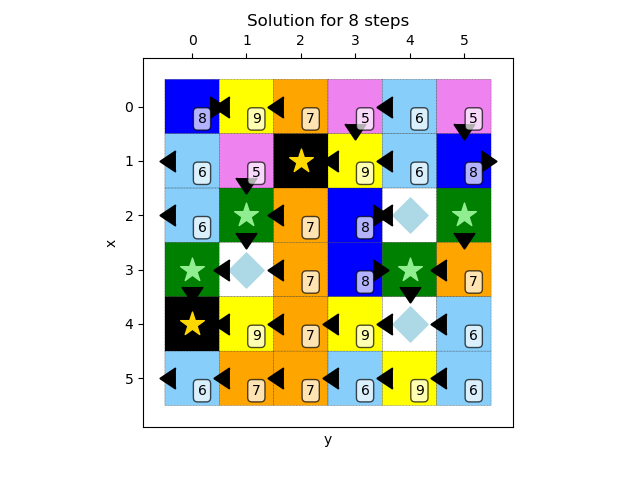
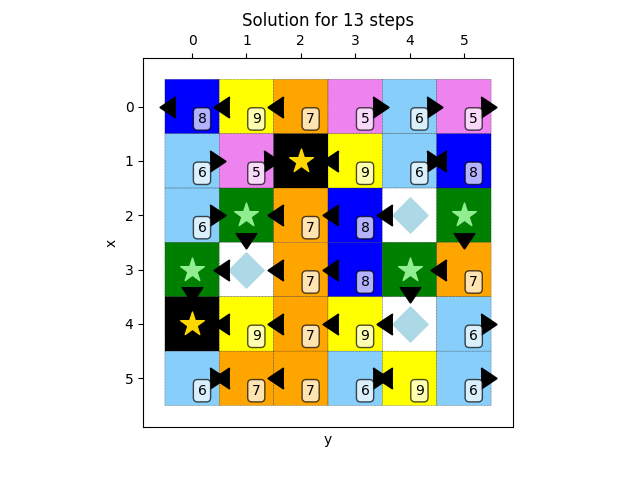
seems to work

diff --git a/automated-reasoning/automated_reasoning/assignment2/robot/robot.py b/automated-reasoning/automated_reasoning/assignment2/robot/robot.py
@@ -21,7 +21,8 @@ def solve(grid: Grid) -> tuple[int, dict[Cell, str]]:
 
     :return: a solution as described above
     """
-    for T in range(1,9999999):
+    for T in range(grid.lower_bound_on_solution,9999999):
+    #for T in range(13,9999999):
         V_PLAN = {c:Int(f"p_{c}") for c in grid.colors}
         F_PLAN_BOUND = [Or(V_PLAN[c] == 1, V_PLAN[c] == 2, V_PLAN[c] == 3, V_PLAN[c] == 4)
                         for c in grid.colors if c != 1] + [V_PLAN[1] == 5]
@@ -30,6 +31,8 @@ def solve(grid: Grid) -> tuple[int, dict[Cell, str]]:
         for s in range(NO_INITIAL_CELLS)]
         V_Y = [[Int(f"y_{s}_{t}") for t in range(T)] 
         for s in range(NO_INITIAL_CELLS)]
+        F_X_BOUNDS = [And(V_X[s][t] >= 0, V_X[s][t] < grid.xdim) for t in range(T) for s in range(NO_INITIAL_CELLS)]
+        F_Y_BOUNDS = [And(V_Y[s][t] >= 0, V_Y[s][t] < grid.ydim) for t in range(T) for s in range(NO_INITIAL_CELLS)]
 
         # Warning, the directions are all weird and messed up.
         def neighbors_id(x, y, d):
@@ -44,7 +47,6 @@ def solve(grid: Grid) -> tuple[int, dict[Cell, str]]:
         def match(s, t, c, x, y) -> list | None:
             """Return a formula that is true iff in scenario s:
                 the position of the robot is (x,y) at time t, and the color of (x,y) is c."""
-            V_X[s][t] == x
             return And([V_X[s][t] == x, V_Y[s][t] == y]) if get_color_id(x,y) == c else None
 
         # In the formalization, we account for falling off the map, but the grid class already does that for us.
@@ -63,7 +65,7 @@ def solve(grid: Grid) -> tuple[int, dict[Cell, str]]:
             for t in range(T-1)
             for s in range(NO_INITIAL_CELLS) 
             if match(s,t,c,x,y) != None and\
-            True#c != LAVA_CELL_OBS and c != STICKY_CELL_OBS
+            c != LAVA_CELL_OBS and c != STICKY_CELL_OBS
         ]
         
         F_STANDING_STILL = [
@@ -78,13 +80,38 @@ def solve(grid: Grid) -> tuple[int, dict[Cell, str]]:
             for t in range(T-1)
             for s in range(NO_INITIAL_CELLS) 
             if match(s,t,c,x,y) != None and\
-            True#c != LAVA_CELL_OBS and c != STICKY_CELL_OBS
+            c != LAVA_CELL_OBS and c != STICKY_CELL_OBS
         ]
         # print(F_BASIC_MOVEMENT[:10])
         # print(len(F_BASIC_MOVEMENT))
         # quit()
         # [print(m) for m in F_BASIC_MOVEMENT[0:50]]
         # print(len(F_BASIC_MOVEMENT))
+
+        F_LAVA_TILES = [
+            Not(match(s,t,LAVA_CELL_OBS,x,y))
+            for y in range(grid.ydim)
+            for x in range(grid.xdim)
+            for t in range(T-1)
+            for s in range(NO_INITIAL_CELLS)
+            if match(s,t,LAVA_CELL_OBS,x,y) != None
+        ]
+
+        F_STICKY_TILES = [
+            Implies(match(s,t,STICKY_CELL_OBS,x,y),
+                Implies(Or(V_X[s][t-1] != V_X[s][t], V_Y[s][t-1] != V_Y[s][t]),
+                    And([And(V_X[s][t] == V_X[s][tt], V_Y[s][t] == V_Y[s][tt])
+                        for tt in range(t+1, min(t+6,T))
+                    ] + [Implies(V_PLAN[STICKY_CELL_OBS] == d,
+                        And(V_X[s][t+6] == neighbors_id(x,y,d).x, V_Y[s][t+6] == neighbors_id(x,y,d).y))
+                        for d in range(len(ACTIONS)) if t+6 < T])
+                ))
+            for y in range(grid.ydim)
+            for x in range(grid.xdim)
+            for t in range(T-1)
+            for s in range(NO_INITIAL_CELLS)
+            if match(s,t,STICKY_CELL_OBS,x,y) != None
+        ]
 
         F_START = [
             And(V_X[s][0] == grid.get_cell_at(ic.x, ic.y).x, V_Y[s][0] == grid.get_cell_at(ic.x, ic.y).y)
@@ -102,7 +129,7 @@ def solve(grid: Grid) -> tuple[int, dict[Cell, str]]:
             for s in range(NO_INITIAL_CELLS) 
         ]
 
-        phi = F_PLAN_BOUND + F_BASIC_MOVEMENT + F_STANDING_STILL + F_START + F_FINISH
+        phi = F_PLAN_BOUND + F_X_BOUNDS + F_Y_BOUNDS + F_BASIC_MOVEMENT + F_STANDING_STILL + F_START + F_FINISH + F_LAVA_TILES + F_STICKY_TILES
         #phi = F_FINISH
     
         s = Solver()
@@ -113,15 +140,16 @@ def solve(grid: Grid) -> tuple[int, dict[Cell, str]]:
             action_plan = {c: ACTIONS[p-1] for c,p in plan.items()}
             policy = {cell: action_plan[grid.get_color(cell)] for cell in grid.cells}
 
-            DEBUG = False
+            DEBUG = True
             if DEBUG:
                 print(action_plan)
+                print("T:", T)
                 for s in range(NO_INITIAL_CELLS):
                     print(f"PATH {s}:")
                     for t in range(T):
                         x = int(str(m.evaluate(V_X[s][t])))
                         y = int(str(m.evaluate(V_Y[s][t])))
-                        print(f"({x},{y})", get_color_id(x,y), plan[get_color_id(x,y)], action_plan[get_color_id(x,y)])
+                        print("t:", t, f"({x},{y}) color: ", get_color_id(x,y), "plan:", action_plan[get_color_id(x,y)])
 
             print(f"Success in {T}")
             return T, policy
@@ -158,7 +186,7 @@ def main():
         solution_checker = SolutionChecker(grid, policy)
         try:
             print(solution_checker.run())
-            print(f"Found a solution with {nr_steps} steps.")
+            print(f"Solution checker verified a solution with {nr_steps} steps.")
         except:
             print("Solution checker failed.")
         grid.plot(
